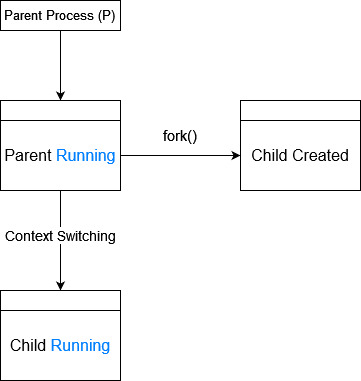
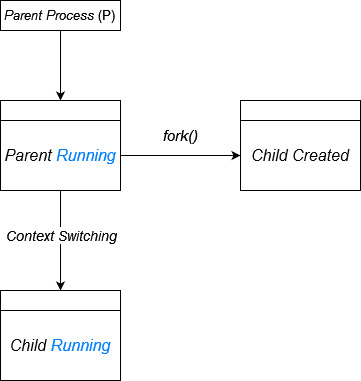
merubah bentuk format kalimat yang mengandung bahasa inggris menjadi font italic/Miring

diff --git a/b_class/main.tex b/b_class/main.tex
@@ -77,64 +77,65 @@ This section covers:
 It explains how these algorithms are used to allocate CPU time to processes.
 
 \subsection{Process Creation and Termination} 
-Process Spawning, Parent and Child Process
+\textit{Process Spawning, Parent and Child Process}
 \begin{figure} [h]
         \centering
         \includegraphics[width=0.75\textwidth]{assets/Forking-and-Context-Switching.jpg}
         \label{fig:diagram}
 \end{figure}
-\subsubsection {Parent Process}
-    {Parent process} adalah proses yang memulai atau membuat proses lain. Dalam banyak sistem operasi, proses baru dibuat menggunakan sistem panggilan seperti fork() (di Unix/Linux). Parent process biasanya adalah proses yang sudah berjalan dan bertanggung jawab untuk memulai proses baru.
-    Setelah memulai child process, parent process tetap bisa berjalan bersamaan dengan child process-nya atau bisa menunggu hingga child process selesai.
+\subsubsection {\textit{Parent Process}}
+    \textit{Parent process} adalah proses yang memulai atau membuat proses lain. Dalam banyak sistem operasi, proses baru dibuat menggunakan sistem panggilan seperti \textit{fork()} di \textit{Unix/Linux}. Parent process biasanya adalah proses yang sudah berjalan dan bertanggung jawab untuk memulai proses baru.
+    Setelah memulai \textit{child process}, parent process tetap bisa berjalan bersamaan dengan child process-nya atau bisa menunggu hingga \textit{child process} selesai.
 
-\subsubsection {Child Process}
+\subsubsection {\textit{Child Process}}
 
 \begin{itemize}
     
-    \item{Child Process:} Child process adalah sebuah proses yang dihasilkan dari parent process. Child process ini merupakan salinan dari parent process, yang berarti pada saat pembuatannya, ia memiliki atribut dan konteks eksekusi yang sama dengan parent process-nya. Namun, meskipun child process diawali sebagai salinan, ia memiliki identitas yang unik dalam bentuk Process ID (PID) yang berbeda dari parent process-nya. Hal ini memungkinkan sistem operasi untuk membedakan antara parent dan child process dalam manajemen prosesnya.
+    \item \textit{{Child Process:} Child process} adalah sebuah proses yang dihasilkan dari parent process. \textit{Child process} ini merupakan salinan dari parent process, yang berarti pada saat pembuatannya, ia memiliki atribut dan konteks eksekusi yang sama dengan \textit{parent process}-nya. Namun, meskipun \textit{child process} diawali sebagai salinan, ia memiliki identitas yang unik dalam bentuk \textit{Process ID (PID)} yang berbeda dari parent process-nya. Hal ini memungkinkan sistem operasi untuk membedakan antara \textit{parent} dan \textit{child process} dalam manajemen prosesnya.
     
-    \item{Pewarisan Properti:} Child process seringkali mewarisi berbagai properti dari parent process. Properti-properti yang diwariskan dapat mencakup lingkungan eksekusi (environment), seperti variabel lingkungan dan pengaturan konfigurasi yang diperlukan untuk menjalankan proses, prioritas proses yang menentukan seberapa cepat atau lambat proses tersebut akan mendapatkan akses ke sumber daya sistem, serta akses file yang dibuka oleh parent process, memungkinkan child process untuk melanjutkan operasi pada file yang sama. Misalnya, jika parent process memiliki file terbuka untuk penulisan, child process dapat mewarisi akses ini dan melanjutkan operasi pada file yang sama.
+    \item {Pewarisan Properti:} \textit{Child process} seringkali mewarisi berbagai properti dari \textit{parent process}. Properti-properti yang diwariskan dapat mencakup lingkungan eksekusi \textit{environment}, seperti variabel lingkungan dan pengaturan konfigurasi yang diperlukan untuk menjalankan proses, prioritas proses yang menentukan seberapa cepat atau lambat proses tersebut akan mendapatkan akses ke sumber daya sistem, serta akses \textit{file} yang dibuka oleh \textit{parent process}, memungkinkan \textit{child process} untuk melanjutkan operasi pada \textit{file} yang sama. Misalnya, jika \textit{parent process} memiliki \textit{file} terbuka untuk penulisan, \textit{child process} dapat mewarisi akses ini dan melanjutkan operasi pada \textit{file} yang sama.
+
     
-    \item{Eksekusi Mandiri:} Setelah dibuat, child process dapat berjalan secara mandiri. Ini berarti bahwa ia tidak perlu selalu bergantung pada parent process untuk melanjutkan eksekusinya. Child process dapat menjalankan tugas-tugas yang berbeda dari parent process-nya, memungkinkan pemisahan kerja yang lebih efektif. Dalam beberapa kasus, child process akan menggunakan fungsi seperti exec() (di Unix/Linux) untuk menggantikan kode program yang diwarisinya dari parent dengan program baru yang benar-benar berbeda. Kemampuan ini memberikan fleksibilitas dalam sistem operasi untuk menjalankan berbagai tugas yang lebih kompleks dan terpisah, yang tidak harus bergantung pada program yang dijalankan oleh parent process. Sebagai contoh, dalam sebuah web server, parent process dapat membuat child process untuk menangani setiap permintaan klien secara mandiri, sehingga memungkinkan server untuk menangani beberapa klien sekaligus.
+    \item {Eksekusi Mandiri:} Setelah dibuat, \textit{child process} dapat berjalan secara mandiri. Ini berarti bahwa ia tidak perlu selalu bergantung pada \textit{parent process} untuk melanjutkan eksekusinya. \textit{Child process} dapat menjalankan tugas-tugas yang berbeda dari \textit{parent process}-nya, memungkinkan pemisahan kerja yang lebih efektif. Dalam beberapa kasus, \textit{child process} akan menggunakan fungsi seperti \textit{exec()} pada Unix/Linux untuk menggantikan kode program yang diwarisinya dari \textit{parent} dengan program baru yang benar-benar berbeda. Kemampuan ini memberikan fleksibilitas dalam sistem operasi untuk menjalankan berbagai tugas yang lebih kompleks dan terpisah, yang tidak harus bergantung pada program yang dijalankan oleh \textit{parent process}. Sebagai contoh, dalam sebuah web server, \textit{parent process} dapat membuat \textit{child process} untuk menangani setiap permintaan klien secara mandiri, sehingga memungkinkan server untuk menangani beberapa klien sekaligus.
 \end{itemize}
 
-\subsubsection{Cara Parent dan Child Process Berinteraksi}
+\subsubsection{Cara \textit{Parent} dan \textit{Child Process} Berinteraksi}
 
 \begin{itemize}
-    \item {Komunikasi Antarproses (IPC):} Dalam sistem operasi, parent dan child process dapat berkomunikasi satu sama lain melalui berbagai mekanisme Inter-Process Communication (IPC). Mekanisme ini memungkinkan pertukaran data atau sinyal antarproses. Beberapa metode umum IPC meliputi:
+    \item {Komunikasi Antarproses (IPC):} Dalam sistem operasi, \textit{parent} dan \textit{child process} dapat berkomunikasi satu sama lain melalui berbagai mekanisme \textit{Inter-Process Communication (IPC).} Mekanisme ini memungkinkan pertukaran data atau sinyal antarproses. Beberapa metode umum IPC meliputi:
 
     
-    {Pipe :} Sebuah saluran komunikasi satu arah saat data dikirim dari satu proses ke proses lain dalam bentuk aliran byte. Ini memungkinkan parent process untuk mengirimkan data ke child process atau sebaliknya.
+    {Saluran :} Sebuah saluran komunikasi satu arah saat data dikirim dari satu proses ke proses lain dalam bentuk aliran \textit{byte.} Ini memungkinkan \textit{parent process} untuk mengirimkan data ke \textit{child process} atau sebaliknya.
     
-    {Shared Memory :} Parent dan child process dapat berbagi segmen memori yang memungkinkan mereka untuk membaca dan menulis data secara bersama-sama tanpa harus melakukan penyalinan data yang berlebihan.
+    {Berbagi Memori :} \textit{Parent} dan \textit{child process} dapat berbagi segmen memori yang memungkinkan mereka untuk membaca dan menulis data secara bersama-sama tanpa harus melakukan penyalinan data yang berlebihan.
     
-    {Sinyal (Signal) :} Sinyal adalah bentuk komunikasi sederhana yang dapat digunakan oleh parent process untuk memberitahu child process mengenai suatu event, seperti perintah untuk menghentikan eksekusi atau melanjutkan eksekusi. Sinyal juga dapat digunakan oleh child process untuk mengirimkan informasi status kembali ke parent.
+    {Sinyal :} Sinyal adalah bentuk komunikasi sederhana yang dapat digunakan oleh \textit{parent process} untuk memberitahu \textit{child process} mengenai suatu \textit{event}, seperti perintah untuk menghentikan eksekusi atau melanjutkan eksekusi. Sinyal juga dapat digunakan oleh \textit{child process} untuk mengirimkan informasi status kembali ke \textit{parent}.
     
-    \item {Status Child Process :} Parent process memiliki kemampuan untuk melacak status eksekusi child process. Salah satu cara untuk melakukan ini adalah dengan menggunakan panggilan sistem seperti wait() di Unix/Linux. Panggilan ini membuat parent process menunggu hingga child process selesai menjalankan tugasnya. Selama child process berjalan, parent process dapat memantau kapan child process selesai,lalu child process berakhir secara normal atau melalui penghentian yang tidak terduga. Setelah child process selesai, parent process dapat exit status dari child process, yang dapat memberikan informasi tentang bagaimana child process diselesaikan, apakah ada kesalahan atau tugas yang berhasil dijalankan.
+    \item {Status \textit{Child Process} :} \textit{Parent process} memiliki kemampuan untuk melacak status eksekusi \textit{child process}. Salah satu cara untuk melakukan ini adalah dengan menggunakan panggilan sistem seperti \textit{wait()} pada Unix/Linux. Panggilan ini membuat \textit{parent process} menunggu hingga \textit{child process} selesai menjalankan tugasnya. Selama \textit{child process} berjalan, \textit{parent process} dapat memantau kapan \textit{child process} selesai,lalu \textit{child process} berakhir secara normal atau melalui penghentian yang tidak terduga. Setelah \textit{child process} selesai, \textit{parent process} dapat \textit{exit status} dari \textit{child process}, yang dapat memberikan informasi tentang bagaimana \textit{child process} diselesaikan, apakah ada kesalahan atau tugas yang berhasil dijalankan.
     
-    \item {Pewarisan Resource:} Saat child process dibuat, ia biasanya mewarisi resource yang digunakan oleh parent process. Resource ini dapat mencakup:
+    \item {Pewarisan \textit{Resource}:} Saat \textit{child process dibuat}, ia biasanya mewarisi \textit{resource} yang digunakan oleh \textit{parent process. Resource} ini dapat mencakup:
 
-    {File Descriptors :} Child process mewarisi file yang sudah dibuka oleh parent process. Jika parent membuka file untuk dibaca atau ditulis, child process juga dapat melakukan operasi yang sama pada file tersebut tanpa harus membuka ulang.
+    {\textit{File Descriptors} :} \textit{Child process} mewarisi \textit{file} yang sudah dibuka oleh \textit{parent process}. Jika \textit{parent} membuka \textit{file} untuk dibaca atau ditulis, \textit{child process} juga dapat melakukan operasi yang sama pada \textit{file} tersebut tanpa harus membuka ulang.
     
-    {Variable Lingkungan:} Child process sering kali mewarisi semua variabel lingkungan (environment variables) dari parent process. Variabel lingkungan ini digunakan untuk menentukan pengaturan sistem yang penting, seperti jalur pencarian untuk executable, informasi terkait pengguna, dan pengaturan regional.
+    {Variabel Lingkungan:} \textit{Child process} sering kali mewarisi semua variabel lingkungan dari \textit{parent process}. Variabel lingkungan ini digunakan untuk menentukan pengaturan sistem yang penting, seperti jalur pencarian untuk \textit{executable}, informasi terkait pengguna, dan pengaturan \textit{regional}.
    
-    {Hak Akses:} Child process juga dapat mewarisi hak akses yang dimiliki oleh parent, seperti izin untuk mengakses file tertentu atau menggunakan resource perangkat keras. Namun, sering kali child process dapat berjalan dengan hak akses yang lebih rendah dari parent process untuk meningkatkan keamanan, seperti dijelaskan sebelumnya.
+    {Hak Akses:} \textit{Child process} juga dapat mewarisi hak akses yang dimiliki oleh \textit{parent}, seperti izin untuk mengakses \textit{file} tertentu atau menggunakan \textit{resource} perangkat keras. Namun, sering kali \textit{child process} dapat berjalan dengan hak akses yang lebih rendah dari \textit{parent process} untuk meningkatkan keamanan, seperti dijelaskan sebelumnya.
 \end{itemize}
 
 \subsubsection{Contoh di Unix/Linux}
 
 \begin{itemize}
-    \item Fungsi fork(): Pada sistem operasi berbasis Unix atau Linux, pembuatan child process dilakukan menggunakan fungsi fork(). Fungsi ini sangat penting dalam sistem operasi karena memungkinkan parent process untuk membuat salinan dirinya dalam bentuk child process. Ketika fork() dipanggil, sistem operasi membuat duplikat dari parent process, Jadi child process baru mendapatkan salinan dari semua data yang dimiliki parent process, termasuk variabel, file descriptor, dan status eksekusi. Namun, meskipun child process merupakan duplikat, ia memiliki Process ID (PID) yang unik dan berbeda dari parent process. Dengan demikian, setelah fork(), kedua proses tersebut akan berjalan secara paralel atau bergantian, tergantung pada algoritma penjadwalan yang digunakan oleh sistem operasi.
+    \item {Fungsi \textit{fork()}:} Pada sistem operasi berbasis Unix atau Linux, pembuatan \textit{child process} dilakukan menggunakan fungsi \textit{fork()}. Fungsi ini sangat penting dalam sistem operasi karena memungkinkan \textit{parent process} untuk membuat salinan dirinya dalam bentuk \textit{child process}. Ketika \textit{fork()} dipanggil, sistem operasi membuat duplikat dari \textit{parent process}, ketika \textit{child process} baru mendapatkan salinan dari semua data yang dimiliki \textit{parent process}, termasuk variabel, \textit{file descriptor}, dan status eksekusi. Namun, meskipun \textit{child process} merupakan duplikat, ia memiliki \textit{Process ID (PID)} yang unik dan berbeda dari \textit{parent process}. Dengan demikian, setelah \textit{fork()}, kedua proses tersebut akan berjalan secara paralel atau bergantian, tergantung pada algoritma penjadwalan yang digunakan oleh sistem operasi.
     
-    \item Status Child Process: Parent process memiliki kemampuan untuk melacak status eksekusi child process. Salah satu cara untuk melakukan ini adalah dengan menggunakan panggilan sistem seperti wait() di Unix/Linux. Panggilan ini membuat parent process menunggu hingga child process selesai menjalankan tugasnya. Selama child process berjalan, parent process dapat memantau kapan child process selesai, apakah child process berakhir secara normal atau melalui penghentian yang tidak terduga. Setelah child process selesai, parent process dapat mengambil exit status dari child process, yang dapat memberikan informasi tentang bagaimana child process diselesaikan, apakah ada kesalahan atau tugas yang berhasil dijalankan.
+    \item {Status \textit{Child Process}:} \textit{Parent process} memiliki kemampuan untuk melacak status eksekusi \textit{child process}. Salah satu cara untuk melakukan ini adalah dengan menggunakan panggilan sistem seperti \textit{wait()} di Unix/Linux. Panggilan ini membuat \textit{parent process} menunggu hingga \textit{child process} selesai menjalankan tugasnya. Selama \textit{child process} berjalan, \textit{parent process} dapat memantau kapan \textit{child process} selesai, apakah \textit{child process} berakhir secara normal atau melalui penghentian yang tidak terduga. Setelah \textit{child process} selesai, \textit{parent process} dapat mengambil \textit{exit status} dari \textit{child process}, yang dapat memberikan informasi tentang bagaimana \textit{child process} diselesaikan, apakah ada kesalahan atau tugas yang berhasil dijalankan.
 \end{itemize}
 
 \subsubsection{Manfaat dan Penggunaan}
 
 \begin{itemize}
-    \item Keterpisahan tugas: Memisahkan tugas-tugas menjadi child process memungkinkan sistem operasi untuk mendistribusikan pekerjaan secara lebih efektif. Setiap child process dapat menangani tugas tertentu secara mandiri tanpa mengganggu eksekusi tugas lainnya. Hal ini memungkinkan sistem untuk menjalankan banyak proses secara bersamaan (multi-tasking), yang sangat penting dalam lingkungan yang sibuk atau intensif komputasi, seperti server web atau aplikasi pengolahan data skala besar. Dengan menggunakan banyak child process, beban kerja dapat dibagi sehingga mempercepat waktu respon dan meningkatkan efisiensi keseluruhan sistem. Selain itu, pembagian tugas ini membuat sistem lebih fleksibel dalam hal manajemen beban, saat satu proses dapat dialihkan atau dihentikan tanpa memengaruhi proses lainnya, sehingga meningkatkan ketahanan sistem terhadap kegagalan.
+    \item {Keterpisahan Tugas:} Memisahkan tugas-tugas menjadi \textit{child process} memungkinkan sistem operasi untuk mendistribusikan pekerjaan secara lebih efektif. Setiap \textit{child process} dapat menangani tugas tertentu secara mandiri tanpa mengganggu eksekusi tugas lainnya. Hal ini memungkinkan sistem untuk menjalankan banyak proses secara bersamaan (\textit{multi-tasking}), yang sangat penting dalam lingkungan yang sibuk atau intensif komputasi, seperti server web atau aplikasi pengolahan data skala besar. Dengan menggunakan banyak \textit{child process}, beban kerja dapat dibagi sehingga mempercepat waktu respon dan meningkatkan efisiensi keseluruhan sistem. Selain itu, pembagian tugas ini membuat sistem lebih fleksibel dalam hal manajemen beban, Saat satu proses dapat dialihkan atau dihentikan tanpa memengaruhi proses lainnya, sehingga meningkatkan ketahanan sistem terhadap kegagalan.
 
-    \item Keamanan: Dalam konteks keamanan, child process sering kali dijalankan dengan hak akses yang lebih terbatas dibandingkan dengan parent process-nya. Ini berarti child process tidak memiliki akses penuh ke seluruh sistem, tetapi hanya dapat mengakses sumber daya yang diizinkan oleh parent process atau sistem operasi. Pendekatan ini mengurangi risiko jika terjadi kesalahan atau kerentanan di dalam child process, karena dampaknya akan terbatas pada child process itu sendiri dan tidak akan menyebar ke seluruh sistem. Dengan isolasi yang ketat ini, child process yang rentan atau bermasalah tidak dapat merusak proses lain atau mengakses informasi yang tidak diizinkan, sehingga meningkatkan keamanan sistem secara keseluruhan, terutama dalam aplikasi yang melibatkan data sensitif atau akses jaringan yang luas, seperti perbankan online atau cloud computing.
+    \item {Keamanan:} Dalam konteks keamanan, \textit{child process} sering kali dijalankan dengan hak akses yang lebih terbatas dibandingkan dengan \textit{parent process}-nya. Ini berarti \textit{child process} tidak memiliki akses penuh ke seluruh sistem, tetapi hanya dapat mengakses sumber daya yang diizinkan oleh \textit{parent process} atau sistem operasi. Pendekatan ini mengurangi risiko jika terjadi kesalahan atau kerentanan di dalam \textit{child process}, karena dampaknya akan terbatas pada \textit{child process} itu sendiri dan tidak akan menyebar ke seluruh sistem. Dengan isolasi yang ketat ini, \textit{child process} yang rentan atau bermasalah tidak dapat merusak proses lain atau mengakses informasi yang tidak diizinkan, sehingga meningkatkan keamanan sistem secara keseluruhan, terutama dalam aplikasi yang melibatkan data sensitif atau akses jaringan yang luas, seperti perbankan online atau \textit{cloud computing}.
 \end{itemize}
 
 \subsection{Introduction to Threads}
@@ -193,28 +194,28 @@ Virtualization allows multiple operating systems to run concurrently on a single
 
 \section{Assignments and Practical Work}
 \subsection{Assignment 1: Process Scheduling}
-Students were tasked with implementing various process scheduling algorithms (e.g., FCFS, SJN, and RR) and comparing their performance under different conditions.
+\textit{Students were tasked with implementing various process scheduling algorithms (e.g., FCFS, SJN, and RR) and comparing their performance under different conditions.}
 
 \subsubsection{Group 6}
 \vspace{0.5cm}
 \textbf{Soal}
 \begin{enumerate}
-    \item Implementasikan algoritma penjadwalan proses FCFS, SJN, dan RR di Python.
+    \item Implementasikan algoritma penjadwalan proses \textit{FCFS, SJN,} dan \textit{RR} di Python.
     \item Berikan input berupa daftar proses dengan waktu kedatangan dan waktu burst.
     \item Bandingkan kinerja ketiga algoritma dalam hal:
     \begin{itemize}
-        \item Waktu Tunggu Rata-rata (Average Waiting Time, AWT)
-        \item Waktu Putar Rata-rata (Average Turnaround Time, ATT)
-        \item Tingkat Pemanfaatan CPU (CPU Utilization)
+        \item Waktu Tunggu Rata-rata \textit{Average Waiting Time, AWT}
+        \item Waktu Putar Rata-rata \textit{Average Turnaround Time, ATT}
+        \item Tingkat Pemanfaatan \textit{CPU Utilization}
     \end{itemize}
     \item Gunakan data proses berikut ini untuk pengujian:
     \begin{itemize}
-        \item Proses 1: Arrival Time = 0, Burst Time = 5
-        \item Proses 2: Arrival Time = 1, Burst Time = 3
-        \item Proses 3: Arrival Time = 2, Burst Time = 8
-        \item Proses 4: Arrival Time = 3, Burst Time = 6
+        \item Proses 1: \textit{Arrival Time = 0, Burst Time} = 5
+        \item Proses 2: \textit{Arrival Time = 1, Burst Time} = 3
+        \item Proses 3: \textit{Arrival Time = 2, Burst Time} = 8
+        \item Proses 4: \textit{Arrival Time = 3, Burst Time} = 6
     \end{itemize}
-    \item Gunakan kuantum waktu (time quantum) 4 untuk algoritma RR.
+    \item Gunakan kuantum waktu empat untuk algoritma \textit{Round Robin.}
 \end{enumerate}
 
 \textbf{Jawaban dan Implementasi Python}
@@ -222,7 +223,7 @@ Students were tasked with implementing various process scheduling algorithms (e.
 Berikut adalah kode Python yang mengimplementasikan algoritma FCFS, SJN, dan RR untuk penjadwalan proses serta perbandingan kinerjanya:
 
 \begin{python}
-# Fungsi untuk menghitung Waktu Tunggu Rata-rata (Average Waiting Time) dan Waktu Putar Rata-rata (Turnaround Time) untuk FCFS
+# Fungsi untuk menghitung Waktu Tunggu Rata-rata dan Waktu Putar Rata-rata untuk FCFS
 def fcfs(proses):
     n = len(proses)
     proses.sort(key=lambda x: x[1])  # Urutkan berdasarkan waktu kedatangan
@@ -244,7 +245,7 @@ def fcfs(proses):
 
     return rata_waktu_tunggu, rata_waktu_putar
 
-# Fungsi untuk menghitung Waktu Tunggu Rata-rata (Average Waiting Time) dan Waktu Putar Rata-rata (Turnaround Time) untuk SJN
+# Fungsi untuk menghitung Waktu Tunggu Rata-rata dan Waktu Putar Rata-rata untuk SJN
 def sjn(proses):
     n = len(proses)
     proses.sort(key=lambda x: (x[1], x[2]))  # Urutkan berdasarkan waktu kedatangan dan waktu burst
@@ -277,7 +278,7 @@ def sjn(proses):
 
     return rata_waktu_tunggu, rata_waktu_putar
 
-# Fungsi untuk menghitung Waktu Tunggu Rata-rata (Average Waiting Time) dan Waktu Putar Rata-rata (Turnaround Time) untuk RR
+# Fungsi untuk menghitung Waktu Tunggu Rata-rata dan Waktu Putar Rata-rata untuk RR
 def rr(proses, kuantum_waktu):
     n = len(proses)
     sisa_waktu = [p[2] for p in proses]
@@ -342,7 +343,7 @@ RR - AWT: 4.50, ATT: 10.00
 
 \textbf{Tabel Perbandingan AWT dan ATT untuk Algoritma Penjadwalan Proses}
 
-Dari kode di atas, berikut adalah perbandingan kinerja algoritma penjadwalan proses berdasarkan waktu tunggu rata-rata (AWT) dan waktu putar rata-rata (ATT):
+Dari kode di atas, berikut adalah perbandingan kinerja algoritma penjadwalan proses berdasarkan waktu tunggu rata-rata dan waktu putar rata-rata:
 
 
 \begin{table}
@@ -359,24 +360,24 @@ RR                 & 4.50                                & 10.00                
 \end{table}
 \textbf{Penjelasan}
 \begin{enumerate}
-    \item{FCFS (First-Come, First-Served)}: Proses dijadwalkan berdasarkan waktu kedatangan mereka. Fungsi fcfs() menghitung waktu tunggu dan waktu putar berdasarkan urutan kedatangan proses.
-    \item{SJN (Shortest Job Next)}: Proses dengan waktu burst terpendek akan dieksekusi lebih dahulu. Fungsi sjn() menghitung waktu tunggu dan waktu putar dengan mempertimbangkan proses mana yang memiliki waktu burst lebih pendek setelah proses tiba.
-    \item{RR (Round Robin)}: Setiap proses mendapatkan jatah waktu yang sama (kuantum waktu). Fungsi rr() menghitung waktu tunggu dan waktu putar dengan menggunakan kuantum waktu sebagai batas waktu untuk setiap proses sebelum dilanjutkan ke proses berikutnya.
+    \item{FCFS \textit{First-Come, First-Served}} : Proses dijadwalkan berdasarkan waktu kedatangan mereka. Fungsi fcfs() menghitung waktu tunggu dan waktu putar berdasarkan urutan kedatangan proses.
+    \item{SJN \textit{Shortest Job Next}} : Proses dengan waktu burst terpendek akan dieksekusi lebih dahulu. Fungsi sjn() menghitung waktu tunggu dan waktu putar dengan mempertimbangkan proses mana yang memiliki waktu burst lebih pendek setelah proses tiba.
+    \item{RR \textit{Round Robin}} : Setiap proses mendapatkan jatah waktu yang sama (kuantum waktu). Fungsi rr() menghitung waktu tunggu dan waktu putar dengan menggunakan kuantum waktu sebagai batas waktu untuk setiap proses sebelum dilanjutkan ke proses berikutnya.
 \end{enumerate}
 
 \subsection{Assignment 2: Deadlock Handling}
-In this assignment, students were asked to simulate different deadlock scenarios and explore various prevention methods.
+\textit{In this assignment, students were asked to simulate different deadlock scenarios and explore various prevention methods.}
 
 \subsubsection{Group 6}
 \vspace{0.5cm}
 \textbf{Soal}
 \vspace{0.5cm}
 
-Simulasikan skenario \textit{deadlock} sederhana saat dua proses berusaha mengunci dua sumber daya secara bersamaan, sehingga menyebabkan \textit{deadlock}. Jelaskan metode pencegahan \textit{deadlock} yang digunakan untuk menyelesaikan masalah ini.
+Simulasikan skenario \textit{deadlock} sederhana ketika dua proses berusaha mengunci dua sumber daya secara bersamaan, sehingga menyebabkan \textit{deadlock}. Jelaskan metode pencegahan \textit{deadlock} yang digunakan untuk menyelesaikan masalah ini.
 
 \textbf{Jawaban dan Implementasi Kode}
 \vspace{0.5cm}
-\textit{Deadlock} adalah kondisi apabia dua atau lebih proses saling menunggu sumber daya yang sedang dikunci oleh proses lain, sehingga tidak ada proses yang dapat melanjutkan eksekusi.
+\textit{Deadlock} adalah kondisi apabila dua atau lebih proses saling menunggu sumber daya yang sedang dikunci oleh proses lain, sehingga tidak ada proses yang dapat melanjutkan eksekusi.
 
 Berikut adalah implementasi simulasi \textit{deadlock} menggunakan Python:
 
@@ -384,7 +385,7 @@ Berikut adalah implementasi simulasi \textit{deadlock} menggunakan Python:
 import threading
 import time
 
-# Mensimulasikan sumber daya sebagai kunci (lock)
+# Mensimulasikan sumber daya sebagai kunci
 resource1 = threading.Lock()
 resource2 = threading.Lock()
 
@@ -431,11 +432,11 @@ t2.join()
 print("Simulasi selesai")
 \end{python}
 
-Pada kode di atas, \texttt{Process 1} dan \texttt{Process 2} saling mengunci sumber daya yang dibutuhkan oleh proses lain, sehingga menyebabkan \textit{deadlock}.
+Pada kode di atas, \textit{Process 1} dan \textit{Process 2} saling mengunci sumber daya yang dibutuhkan oleh proses lain, sehingga menyebabkan \textit{deadlock}.
 
 \textbf{Pencegahan Deadlock}
 
-Untuk mencegah \textit{deadlock}, kita bisa menggunakan metode \textit{Resource Ordering}, Apabila setiap proses harus mengunci sumber daya dalam urutan yang sama. Berikut adalah versi perbaikan dari kode sebelumnya:
+Untuk mencegah \textit{deadlock}, kita bisa menggunakan metode \textit{Resource Ordering}, Lalu setiap proses harus mengunci sumber daya dalam urutan yang sama. Berikut adalah versi perbaikan dari kode sebelumnya:
 
 \begin{python}
 def proses1_fixed():
@@ -466,7 +467,7 @@ def proses2_fixed():
     resource1.release()
     print("Proses 2 telah melepaskan kedua sumber daya")
 
-# Menjalankan proses dengan pencegahan deadlock
+# Menjalankan proses dengan pencegahan
 t1 = threading.Thread(target=proses1_fixed)
 t2 = threading.Thread(target=proses2_fixed)
 
